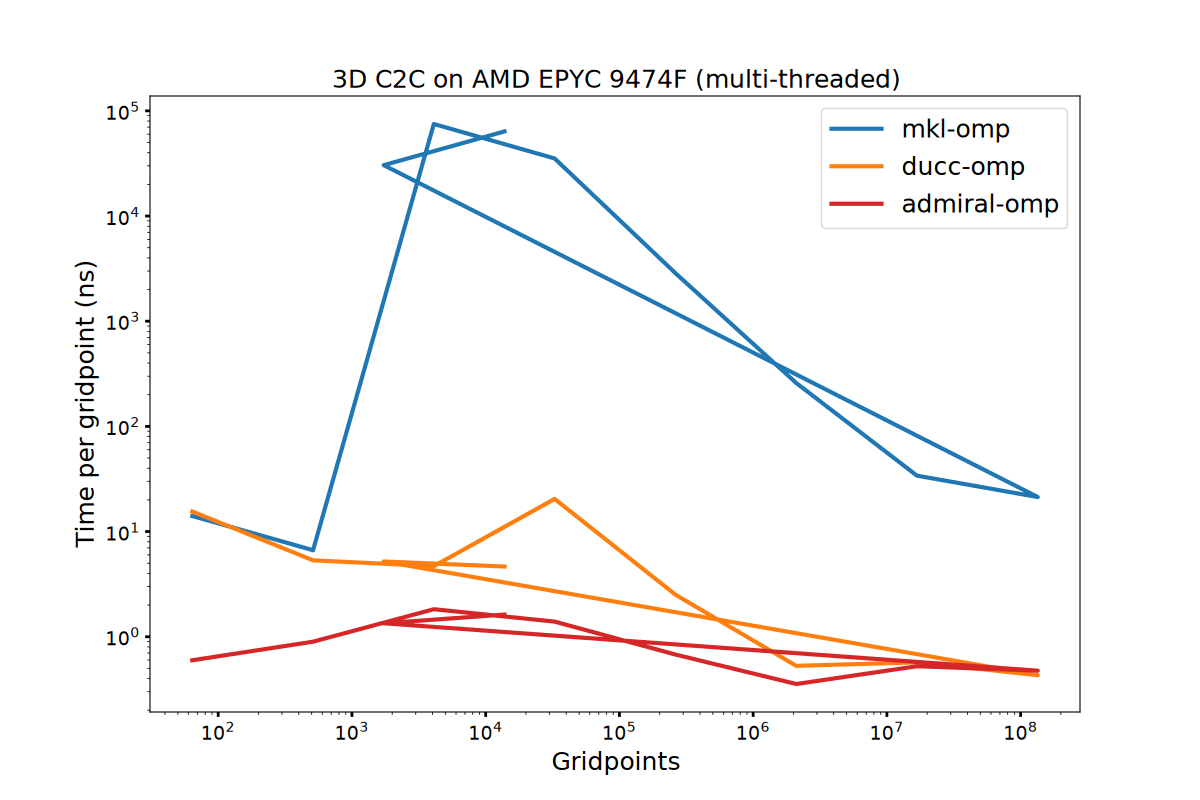
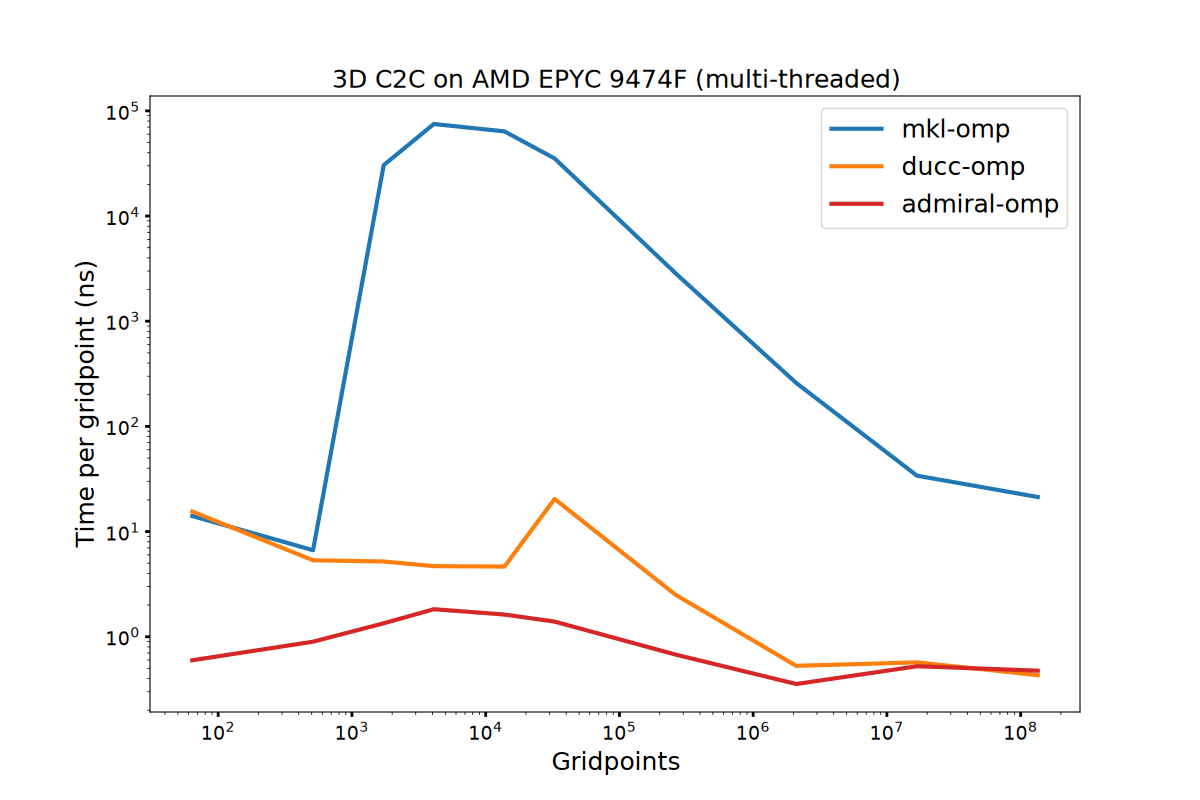
fix: sort each chart series by size, so a line cannot double back
collect_results.py plotted the cells in benchmark-json order. That order stopped
being ascending when the granule cells joined the sweep grid (6d1ad6f, 03bb1a0):
the 2-D f64 family reads 1<<4 .. 1<<13 first, then 12 and 24. The polyline ran
out to 8192^2, jumped back to 12^2 and drew a second branch, which reads as a V
per library. sorted() on the filtered (n, dim, prec, time) tuples keys on n, and
dim and prec are constant inside the filter.

Both draws since the granule cells carry the artifact (91ec868, 711a8c9); the
pre-granule draw c9ae666 is clean. No data change: the charts come from the same
sweep-2026-09-16-1848-admb2bf2d3 jsons as 711a8c9.

Controls: exactly the 12 f64 2-D/3-D PNGs change; every 1-D PNG (pure powers of
two) and every f32 PNG (12 < 16 < 24 < 64, already ascending) stays byte-identical,
so the edit reorders and never rescales. All 39 jsons scanned for duplicate
(dim, prec, n) cells: zero, so the sort cannot stack two points at one x.

The 24^3 kink that survives in the 3-D charts is data, not order: a
non-power-of-two size costs more per gridpoint than its neighbours.

Assisted-by: Claude Opus 5 <noreply@anthropic.com>

diff --git a/fi/collect_results.py b/fi/collect_results.py
@@ -76,7 +76,7 @@ def plot_st_dim(dim: int, prec: str = 'f64'):
         for impl, meas in aggregate_data[arch].items():
             if '-omp' in impl:
                 continue
-            params = list(zip(*filter(lambda p: p[1:3] == (dim, prec), meas)))
+            params = list(zip(*sorted(filter(lambda p: p[1:3] == (dim, prec), meas))))
             if params:
                 series.append((impl, params))
         if prec != 'f64' and not series:
@@ -105,7 +105,7 @@ def plot_mt_dim(dim: int, prec: str = 'f64'):
         for impl, meas in aggregate_data[arch].items():
             if '-omp' not in impl:
                 continue
-            params = list(zip(*filter(lambda p: p[1:3] == (dim, prec), meas)))
+            params = list(zip(*sorted(filter(lambda p: p[1:3] == (dim, prec), meas))))
             if params:
                 series.append((impl, params))
         if prec != 'f64' and not series:
